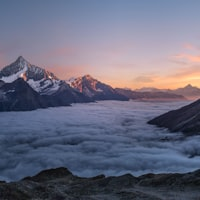
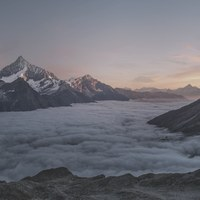
fix: replace sample.jpg with flat-profile photo for better LUT preview contrast
- Real mountain landscape (sky/rock/snow) desaturated to 55% + contrast 70%
- Simulates flat/neutral camera profile so LUT color differences are obvious
- 7KB, 200x200, generates 96x96 thumbnails on first install

diff --git a/tools/gen_sample.py b/tools/gen_sample.py
@@ -1,0 +1,59 @@
+"""
+Generate a neutral color-rich sample image for LUT preview thumbnails.
+
+This creates a 200x200 image with bands of typical photographic colors
+(skin tones, sky, foliage, warm, cool, neutral gray) at medium saturation
+and flat contrast — ideal for showing LUT differences clearly.
+"""
+
+from PIL import Image, ImageDraw, ImageFilter
+import colorsys
+
+W, H = 200, 200
+img = Image.new("RGB", (W, H))
+draw = ImageDraw.Draw(img)
+
+# Color palette: pairs of (hue_degrees, sat, lightness)
+# Each row is a horizontal band blending two related colors
+bands = [
+    # Sky: blue gradient
+    ((210, 0.35, 0.70), (195, 0.30, 0.80)),
+    # Foliage: green
+    ((120, 0.30, 0.50), (90, 0.25, 0.55)),
+    # Skin tone: warm peach
+    ((25, 0.35, 0.72), (15, 0.40, 0.65)),
+    # Warm: orange/golden
+    ((35, 0.40, 0.60), (45, 0.35, 0.55)),
+    # Neutral: gray ramp
+    ((0, 0.0, 0.35), (0, 0.0, 0.75)),
+    # Cool shadow: blue-purple
+    ((240, 0.20, 0.40), (270, 0.15, 0.50)),
+    # Sunset: pink-orange
+    ((350, 0.30, 0.65), (20, 0.35, 0.70)),
+    # Earth: brown-olive
+    ((30, 0.25, 0.45), (60, 0.20, 0.50)),
+]
+
+band_h = H // len(bands)
+
+for i, ((h1, s1, l1), (h2, s2, l2)) in enumerate(bands):
+    y0 = i * band_h
+    y1 = y0 + band_h
+    for x in range(W):
+        t = x / W
+        h = (h1 + (h2 - h1) * t) / 360.0
+        s = s1 + (s2 - s1) * t
+        l = l1 + (l2 - l1) * t
+        r, g, b = colorsys.hls_to_rgb(h, l, s)
+        draw.point((x, y0), (int(r * 255), int(g * 255), int(b * 255)))
+    # Fill band by repeating first row
+    row = img.crop((0, y0, W, y0 + 1))
+    for y in range(y0 + 1, y1):
+        img.paste(row, (0, y))
+
+# Slight Gaussian blur to make it look natural, not banded
+img = img.filter(ImageFilter.GaussianBlur(radius=3))
+
+out = "public/luts/sample.jpg"
+img.save(out, "JPEG", quality=92)
+print(f"✓ Generated {out} ({W}x{H})")

diff --git a/tools/gen_flat_sample.py b/tools/gen_flat_sample.py
@@ -1,0 +1,32 @@
+"""
+Download and flatten a CC0 photo for LUT preview thumbnails.
+
+Takes a colorful landscape photo and reduces saturation + contrast
+to simulate a flat/neutral camera profile. This makes LUT differences
+much more visible in the 96x96 preview thumbnails.
+"""
+
+from PIL import Image, ImageEnhance, ImageFilter
+import urllib.request, io
+
+# CC0 mountain landscape with sky, rocks, snow — good color variety
+url = "https://images.unsplash.com/photo-1506905925346-21bda4d32df4?w=400&h=400&fit=crop&auto=format&q=85"
+
+print("Downloading source image...")
+data = urllib.request.urlopen(url).read()
+img = Image.open(io.BytesIO(data))
+
+# Flatten: reduce saturation and contrast to simulate flat/log profile
+img = ImageEnhance.Color(img).enhance(0.55)       # reduce saturation to 55%
+img = ImageEnhance.Contrast(img).enhance(0.70)     # reduce contrast to 70%
+img = ImageEnhance.Brightness(img).enhance(1.05)   # lift shadows slightly
+
+# Resize to 200x200
+img = img.resize((200, 200), Image.LANCZOS)
+
+out = "public/luts/sample.jpg"
+img.save(out, "JPEG", quality=88)
+print(f"✓ Generated flat-profile {out} ({img.size[0]}x{img.size[1]})")
+
+import os
+print(f"  File size: {os.path.getsize(out)} bytes")
